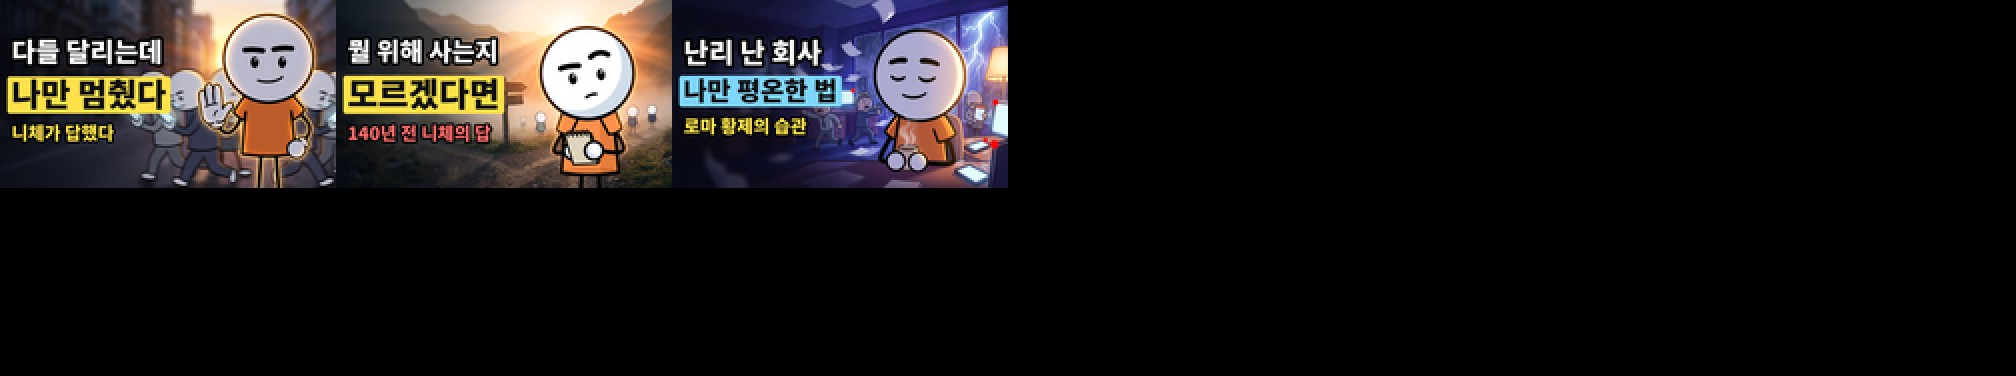
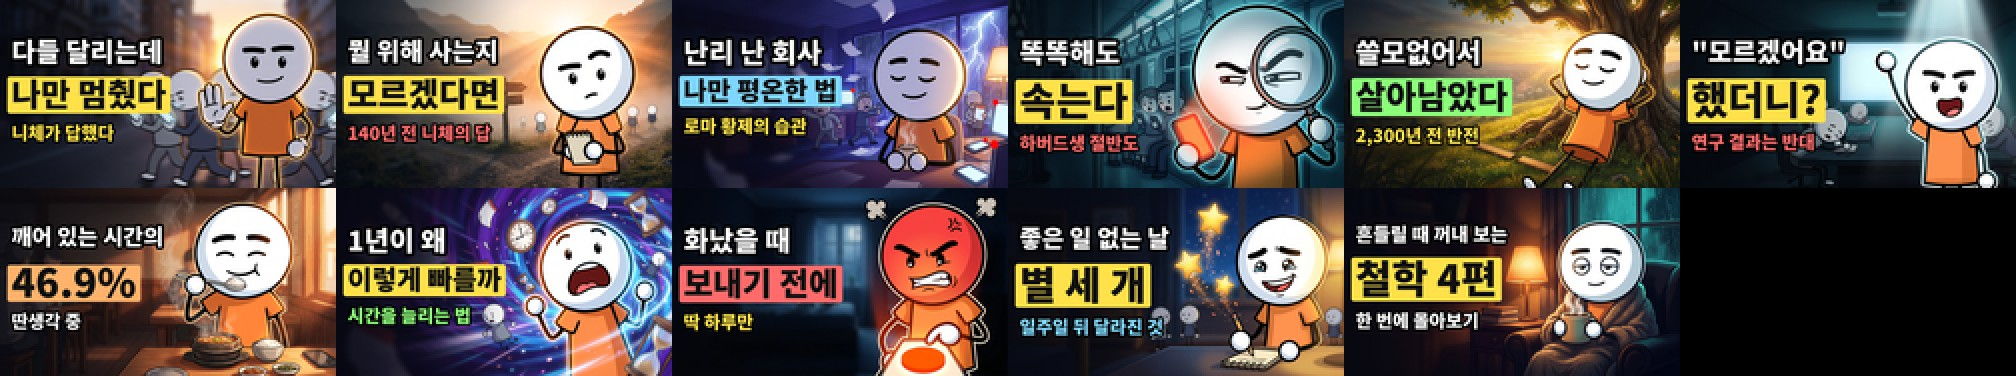
thumbN3: 11 Gemini key-visual thumbnails with text overlay
Claude-Session: https://claude.ai/code/session_01WWWAGrfkk8c3HdrCL88o6T

diff --git a/thumbN3/gen.py b/thumbN3/gen.py
@@ -21,7 +21,7 @@ JOBS = {
            'Around him papers fly through the air, several phones buzz with glowing red notification dots, a lightning flash lights the rain-streaked window. A warm lamp light falls only on Zero, the rest is in violent blue and purple.'),
  'desc': ('A packed subway car, cool blue light. Zero holds a glowing phone in one hand and looks through a huge magnifying glass held in the other, one eyebrow cocked, eyes narrowed in clever suspicion, a tiny knowing smirk. '
           'The phone screen glows an alarming orange-red (blank). Grey passengers behind him stare at their own phones with shocked open mouths.'),
- 'zhuang': ('A sunlit hillside meadow at golden hour. Zero lies back relaxed against the trunk of a gigantic gnarled ancient tree on the right, hands behind his head, eyes closed, a deeply peaceful smile. '
+ 'zhuang': ('Close-up portrait framing, Zero is very large in the frame (head 45% of frame height, upper body only, cropped at the waist). A sunlit hillside meadow at golden hour. Zero leans back relaxed against the trunk of a gigantic gnarled ancient tree on the right, hands behind his head, eyes closed, a deeply peaceful smile. '
             'A long wooden measuring ruler lies snapped in two pieces on the grass in front of him. Far away in the hazy distance, tiny people in suits hurry toward a grey city. Rich warm greens and gold.'),
  'socra': ('A dim corporate meeting room. Zero, big on the right, thrusts one hand high in the air with a brave, bright, determined look and mouth open about to speak. A bright spotlight beam falls on him. '
            'Around the table grey colleagues slump with blank glazed sleepy faces. Dark teal room with a glowing blank projector screen.'),
